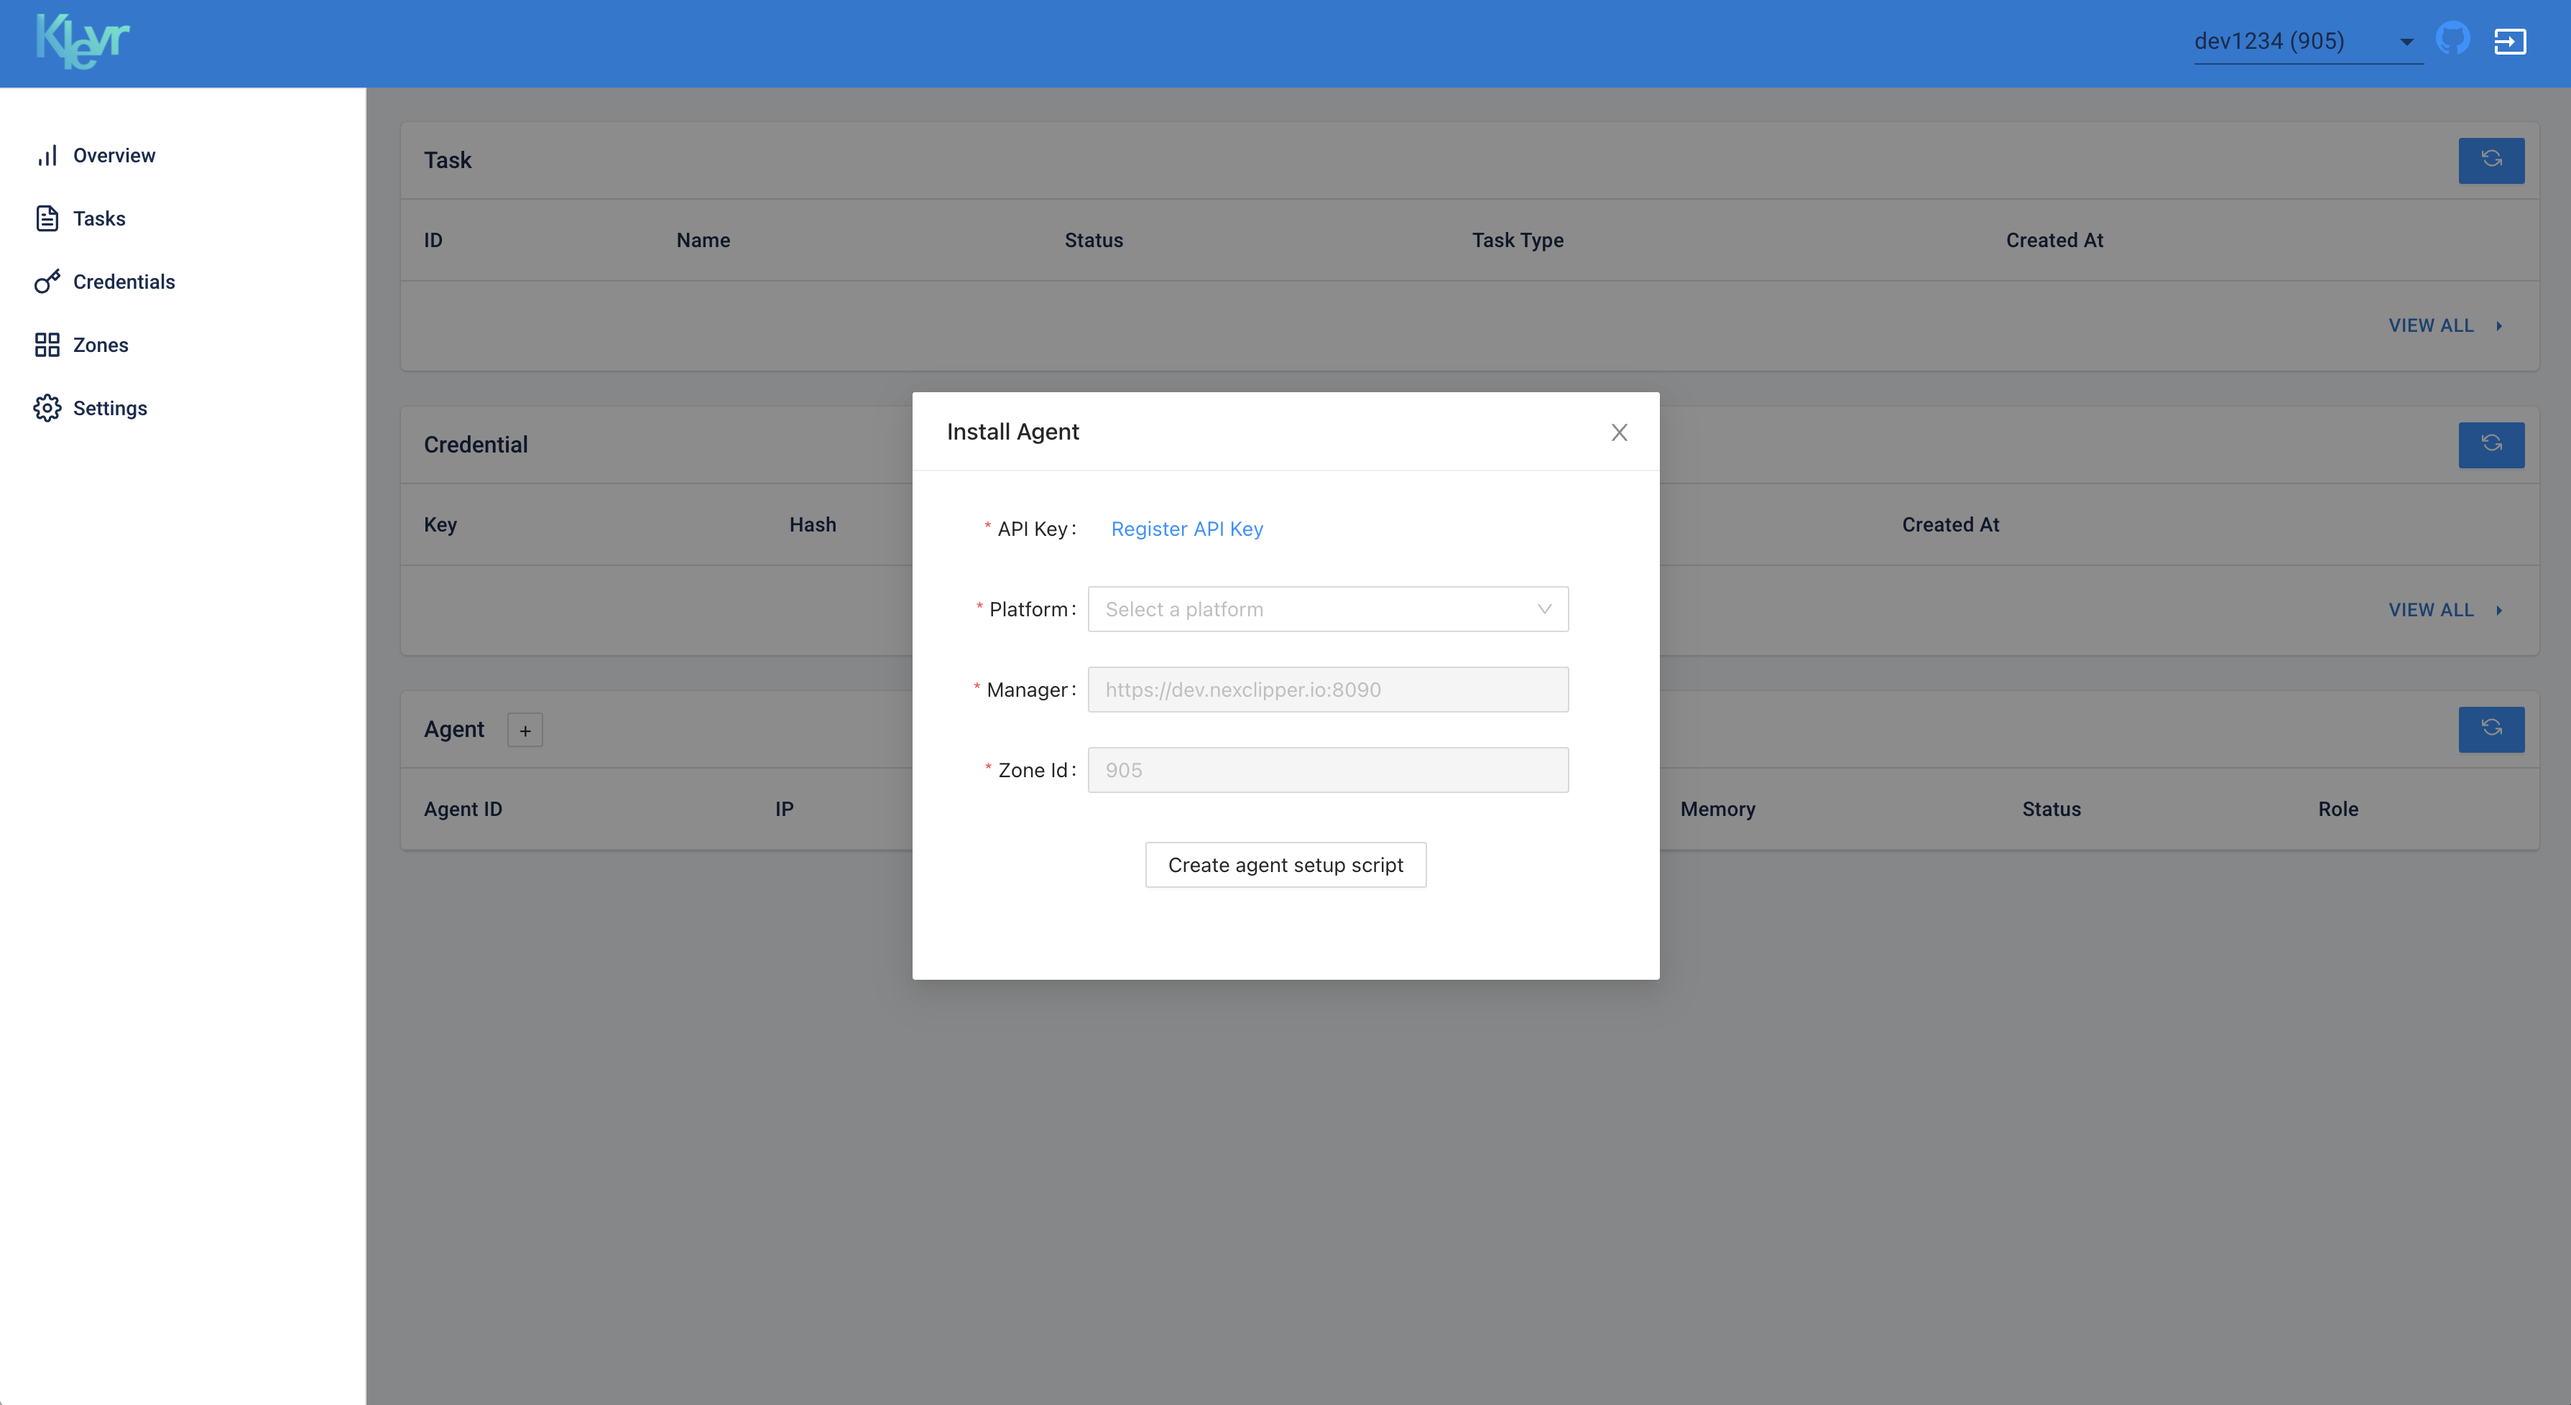
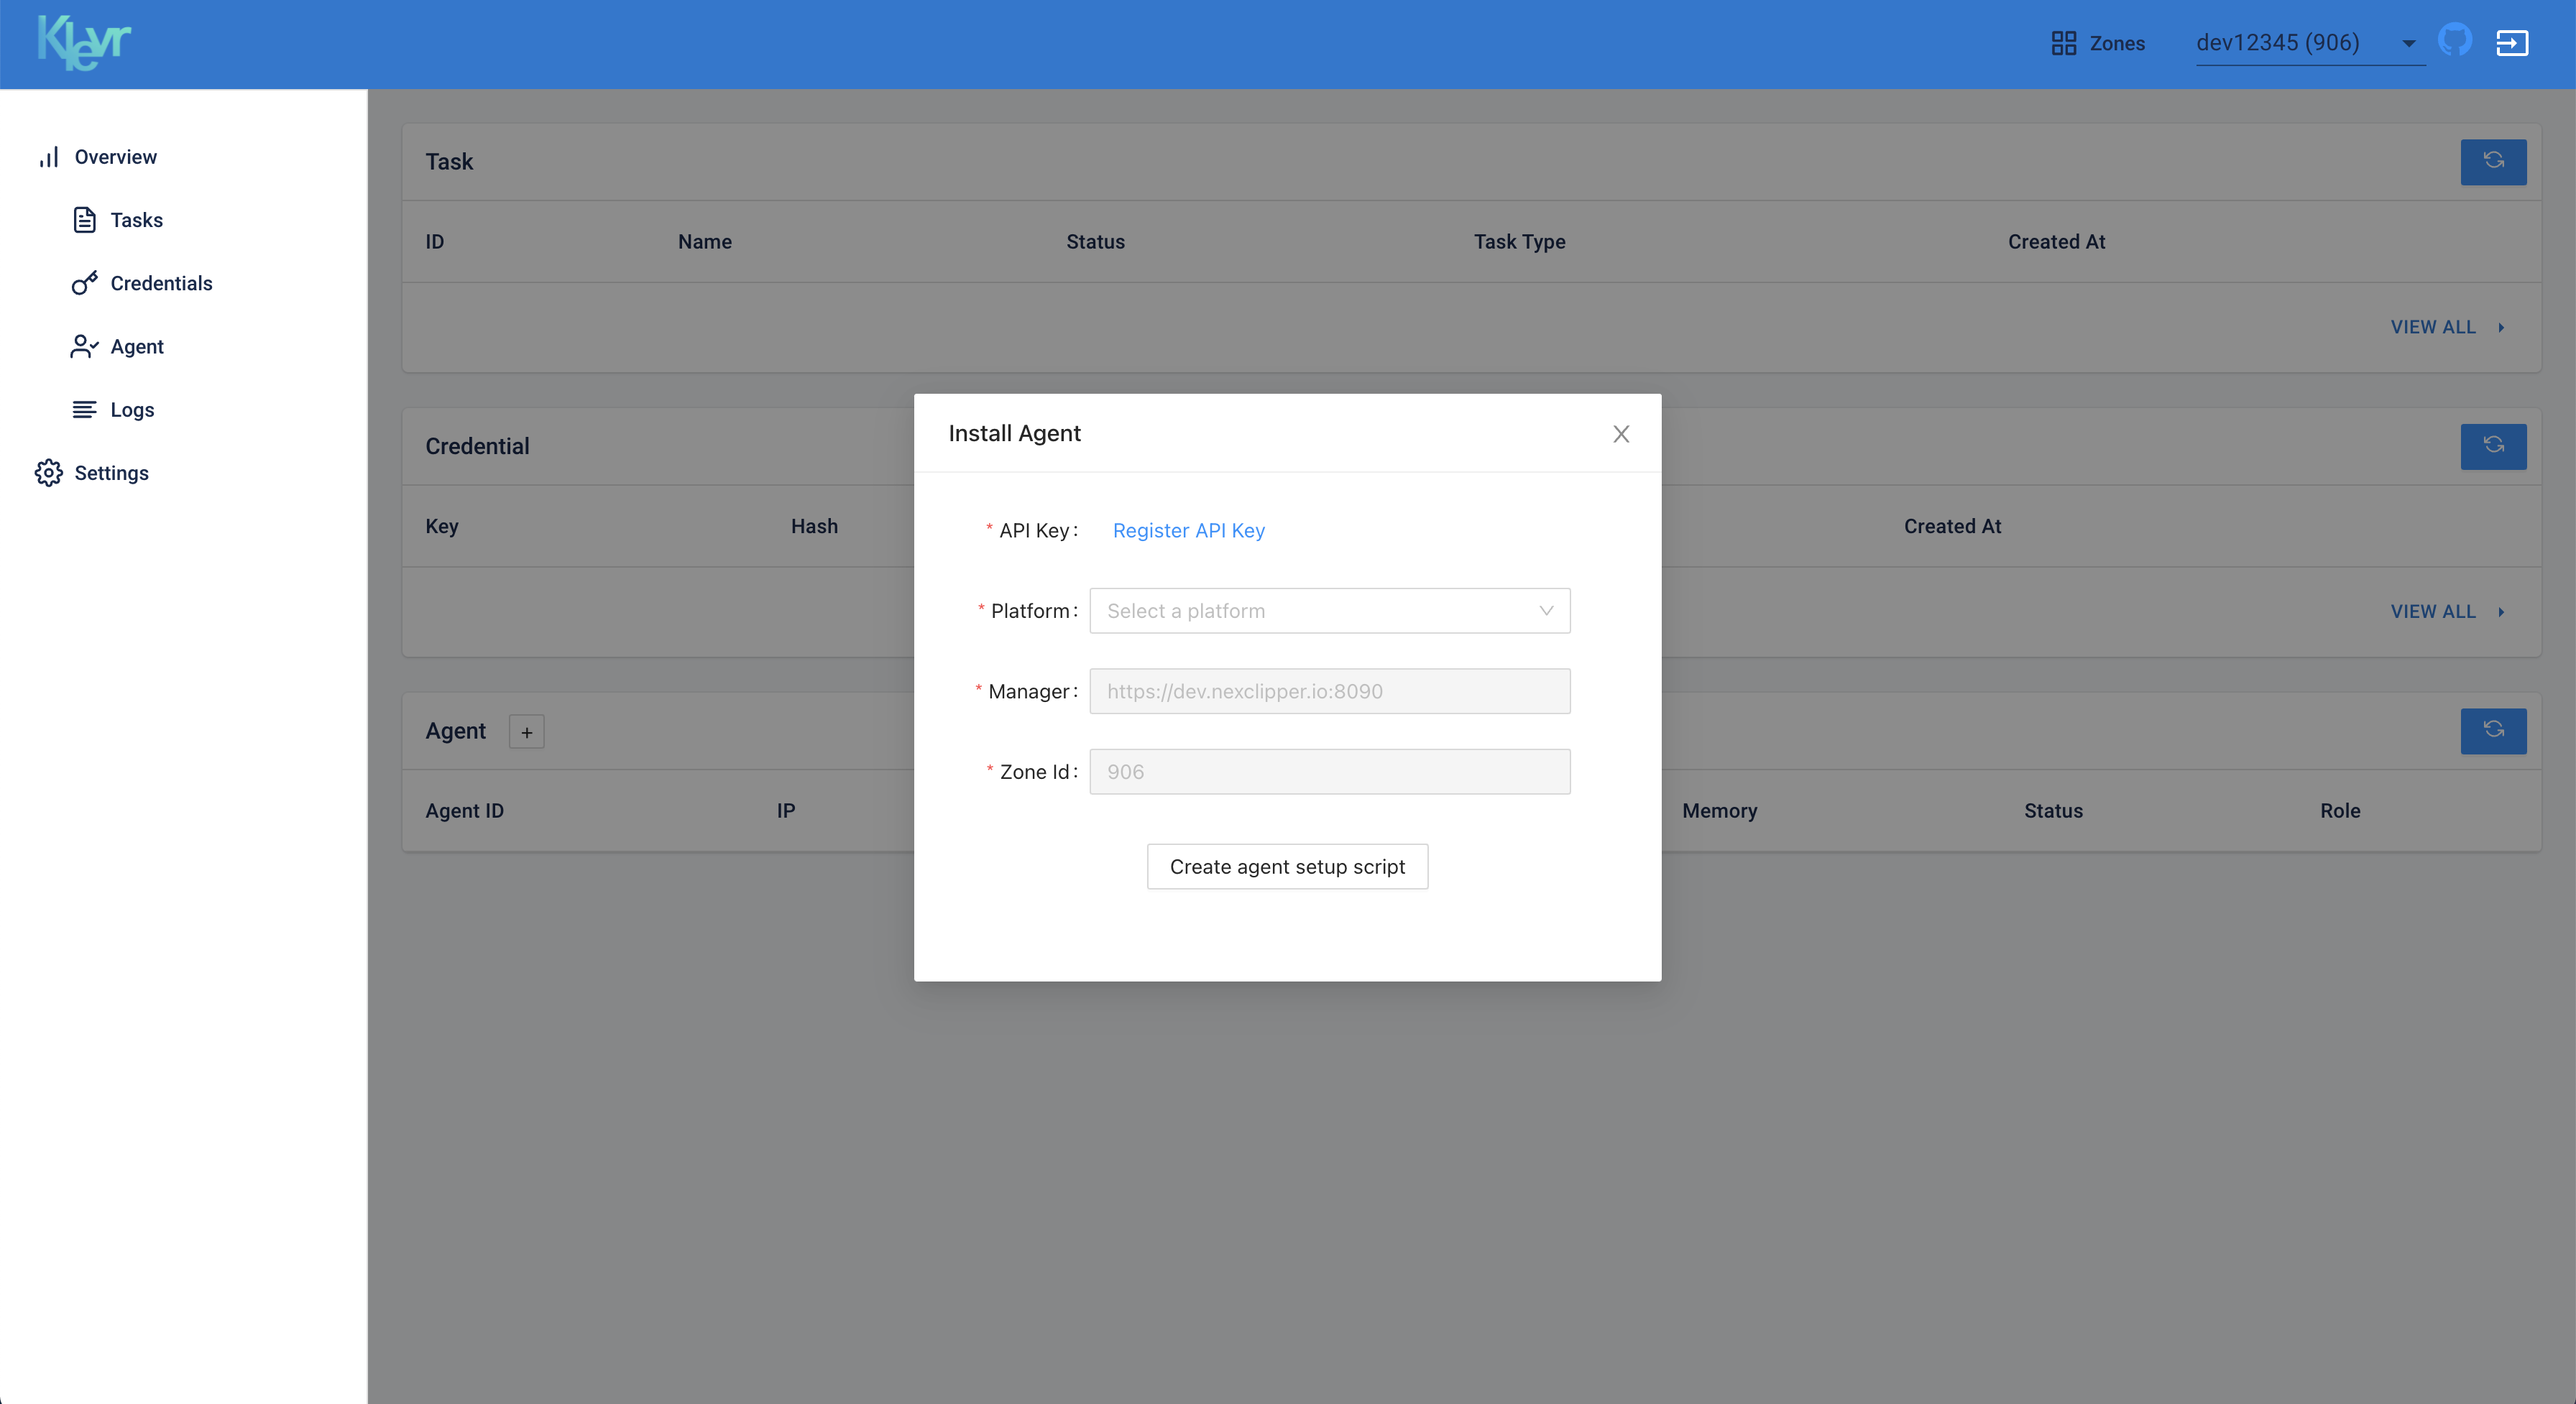
UPDATE console Manual-KR

diff --git a/console/Manual-KR.md b/console/Manual-KR.md
@@ -10,31 +10,35 @@ React로 구현된 Web 기반의 관리 도구
 * 사용자 활성화 상태이면 → 로그인 진행  
   ![signin](https://raw.githubusercontent.com/Klevry/klevr/master/assets/manual_console_signin.png)  
 
-# GNB _Zone List
-![GNB Zone List](https://raw.githubusercontent.com/Klevry/klevr/master/assets/manual_console_gnb_zone_list.png)
+# GNB _Zone Selector 
+![GNB Zone Selector](https://raw.githubusercontent.com/Klevry/klevr/master/assets/manual_console_gnb_zone_selector.png)
 * Zone List 에서 Zone 을 선택하면 → Zone 별로 Resource 들 (task,agent...) 을 조회합니다. 
+
+# GNB _Zone Page
+## 페이지 소개
+![zone intro](https://raw.githubusercontent.com/Klevry/klevr/master/assets/manual_console_zone_intro.png)
+* 해당 존의 API Key 와, Klevr 에 추가 되어있는 모든 Zone List 가 조회됩니다.
+* API Key 는 각 zone 마다 가지고 있는 값이며, 입력된 적이 없으면 입력 후 ADD KEY 를 눌러 추가합니다.
+* 현재는 API Key 값을 등록할 수만 있고, 새로 업데이트 할 수 는 없습니다.
+* 이 API Key 는 Agent 를 추가 할 때 사용 되어는 키 입니다.
+* 이 페이지에서 zone 을 ADD , DELETE 할 수 있습니다.
+
+## Zone 추가
+![zone add](https://raw.githubusercontent.com/Klevry/klevr/master/assets/manual_console_zone_add.png)
+* Zone Name , Platform 을 선택하여 zone 을 추가합니다.
+
+## Zone 삭제
+![zone del](https://raw.githubusercontent.com/Klevry/klevr/master/assets/manual_console_zone_del.png)
+* 현재 활성화 되어있는 zone 은 삭제할 수 없습니다.  
+  (하나 뿐인 zone 을 삭제했을 경우와, 활성화된 zone 을 삭제했을 때 → 어떤 zone으로 이동시켜야 하냐는 문제를 고려하여 우선 비활성화 하는 방법을 선택했습니다.)
+
+
 
 # Overview page
 ## 페이지 소개
 ![Overview intro](https://raw.githubusercontent.com/Klevry/klevr/master/assets/manual_console_overview_intro.png)
 * Overview 페이지에는 Task 리스트 , Credential 리스트 , Agent 리스트 가 있으며 데이터가 실시간으로 자동갱신이 되지 않기 때문에 각 리소스마다 refresh 버튼을 눌러 데이터를 갱신할 수 있습니다.
 * Task 와 Credential 은 따로 페이지가 있어서 overview 화면에서는 일부만 잘라서 보여지며, 전체 리스트는 해당 페이지에서 확인 가능합니다. (view all 버튼을 누르거나, 왼쪽 사이드 메뉴탭에서 진입)
-* Agent 는 따로 관리하는 페이지가 존재하지 않아서, Agent 추가 는 이곳에서 진행됩니다.  
-  (Task 추가, Credential 추가는 각각 페이지에서 진행)
-
-## Agent 추가
-![agent add](https://raw.githubusercontent.com/Klevry/klevr/master/assets/manual_console_agent_add.png)
-* Agent 를 추가할 수 있는 스크립트를 만드려면 →  API Key , target Platform , Manager 주소 , Zone Id 가 필요한데
-  * API KEY 는 Zones 페이지에서 등록 후 사용할 수 있고
-  * Platform 은 모달에서 선택해야하며 (linux, baremetal, kubernetes)
-  * Manger 주소는 자동으로 가져오고
-  * Zone Id 도 자동으로 가져와 채워져 있습니다.
-* 위 내용을 다 채워서 Create agent setup script 버튼을 누르면 스크립트가 생성되고 copy 하여 설치하면 됩니다.
-![agent add modal](https://raw.githubusercontent.com/Klevry/klevr/master/assets/manual_console_agent_add_modal.png)
-
-## Agent List
-![agent list](https://raw.githubusercontent.com/Klevry/klevr/master/assets/manual_console_agent_list.png)
-* 3-2 에서 추가한 Agent 들은 이렇게 리스트에 나타나게 되고 우측상단 새로고침 버튼으로 데이터를 갱신할 수 있습니다.
 
 # Task Page
 ## 페이지 소개
@@ -42,7 +46,6 @@ React로 구현된 Web 기반의 관리 도구
 * Task 페이지에서는 Task List 와 Task Log 들을 조회할 수 있습니다.
 * TaskList 는 전체 / Order(atOnce) / Scheduler(iteration) / Provisioning(longterm) 별로 구분해서 볼 수 있습니다.
 * Task의  Status 가 변경될 때마다 화면이 자동으로 갱신되지 않기 때문에 refresh 버튼을 눌러 확인합니다.
-* 새로운 Log 가 생겨도 화면이 자동으로 갱신되지 않기 때문에 refresh 버튼을 눌러 확인합니다.
 
 ## Task 추가
 ![task add](https://raw.githubusercontent.com/Klevry/klevr/master/assets/manual_console_task_add_1.png)
@@ -74,28 +77,34 @@ React로 구현된 Web 기반의 관리 도구
 ![credential update](https://raw.githubusercontent.com/Klevry/klevr/master/assets/manual_console_credential_update.png)
 * Key 는 수정이 불가능하고, Value 만 업데이트 가능합니다.
 
-# Zone Page
-## 페이지 소개
-![zone intro](https://raw.githubusercontent.com/Klevry/klevr/master/assets/manual_console_zone_intro.png)
-* 해당 존의 API Key 와, Klevr 에 추가 되어있는 모든 Zone List 가 조회됩니다.
-* API Key 는 각 zone 마다 가지고 있는 값이며, 입력된 적이 없으면 입력 후 ADD KEY 를 눌러 추가합니다.
-* 현재는 API Key 값을 등록할 수만 있고, 새로 업데이트 할 수 는 없습니다.
-* 이 API Key 는 Agent 를 추가 할 때 사용 되어는 키 입니다.
-* 이 페이지에서 zone 을 ADD , DELETE 할 수 있습니다.
+# Agent Page
+## Page 소개
+![agent intro](https://raw.githubusercontent.com/Klevry/klevr/master/assets/manual_console_agent_intro.png)
+* Agent List 를 조회 / ADD 할 수 있습니다.
+* Agent 는 하나의 Primary agent 와 다수의 Secondary agent 들이 있고 Role 을 통해 확인됩니다.
+## Agent 추가
+![agent add](https://raw.githubusercontent.com/Klevry/klevr/master/assets/manual_console_agent_add.png)
+* Agent 를 추가할 수 있는 스크립트를 만드려면 →  API Key , target Platform , Manager 주소 , Zone Id 가 필요한데
+  * API KEY 는 Zones 페이지에서 등록 후 사용할 수 있고
+  * Platform 은 모달에서 선택해야하며 (linux, baremetal, kubernetes)
+  * Manger 주소는 자동으로 가져오고
+  * Zone Id 도 자동으로 가져와 채워져 있습니다.
+* 위 내용을 다 채워서 Create agent setup script 버튼을 누르면 스크립트가 생성되고 copy 하여 설치하면 됩니다.
+![agent add modal](https://raw.githubusercontent.com/Klevry/klevr/master/assets/manual_console_agent_add_modal.png)
 
-## Zone 추가
-![zone add](https://raw.githubusercontent.com/Klevry/klevr/master/assets/manual_console_zone_add.png)
-* Zone Name , Platform 을 선택하여 zone 을 추가합니다.
+## Agent List
+![agent list](https://raw.githubusercontent.com/Klevry/klevr/master/assets/manual_console_agent_list.png)
+* 3-2 에서 추가한 Agent 들은 이렇게 리스트에 나타나게 되고 우측상단 새로고침 버튼으로 데이터를 갱신할 수 있습니다.
 
-## Zone 삭제
-![zone del](https://raw.githubusercontent.com/Klevry/klevr/master/assets/manual_console_zone_del.png)
-* 현재 활성화 되어있는 zone 은 삭제할 수 없습니다.  
-  (하나 뿐인 zone 을 삭제했을 경우와, 활성화된 zone 을 삭제했을 때 → 어떤 zone으로 이동시켜야 하냐는 문제를 고려하여 우선 비활성화 하는 방법을 선택했습니다.)
+# Logs Page
+## Page 소개
+![logs intro](https://raw.githubusercontent.com/Klevry/klevr/master/assets/manual_console_logs_intro.png)
+* task 수행중 생긴 Log 들을 조회할 수 있습니다.
+* 새로운 Log 가 생겨도 화면이 자동으로 갱신되지 않기 때문에 refresh 버튼을 눌러 확인합니다.
 
 # Settings Page
 ## 페이지 소개
-![settings intro](https://raw.githubusercontent.com/Klevry/klevr/master/assets/manual_console_setting_intro.png)
+![settings intro](https://raw.githubusercontent.com/Klevry/klevr/master/assets/manual_console_settings_intro.png)
 * 연결되어있는 Klevr Manger URL 을 조회할 수 있습니다.
 * Password UPDATE 를 해줄 수 있으며, 현재 비밀번호가 일치했을 때 New password 에 입력된 값으로 비밀번호가 바뀝니다.
-
 
